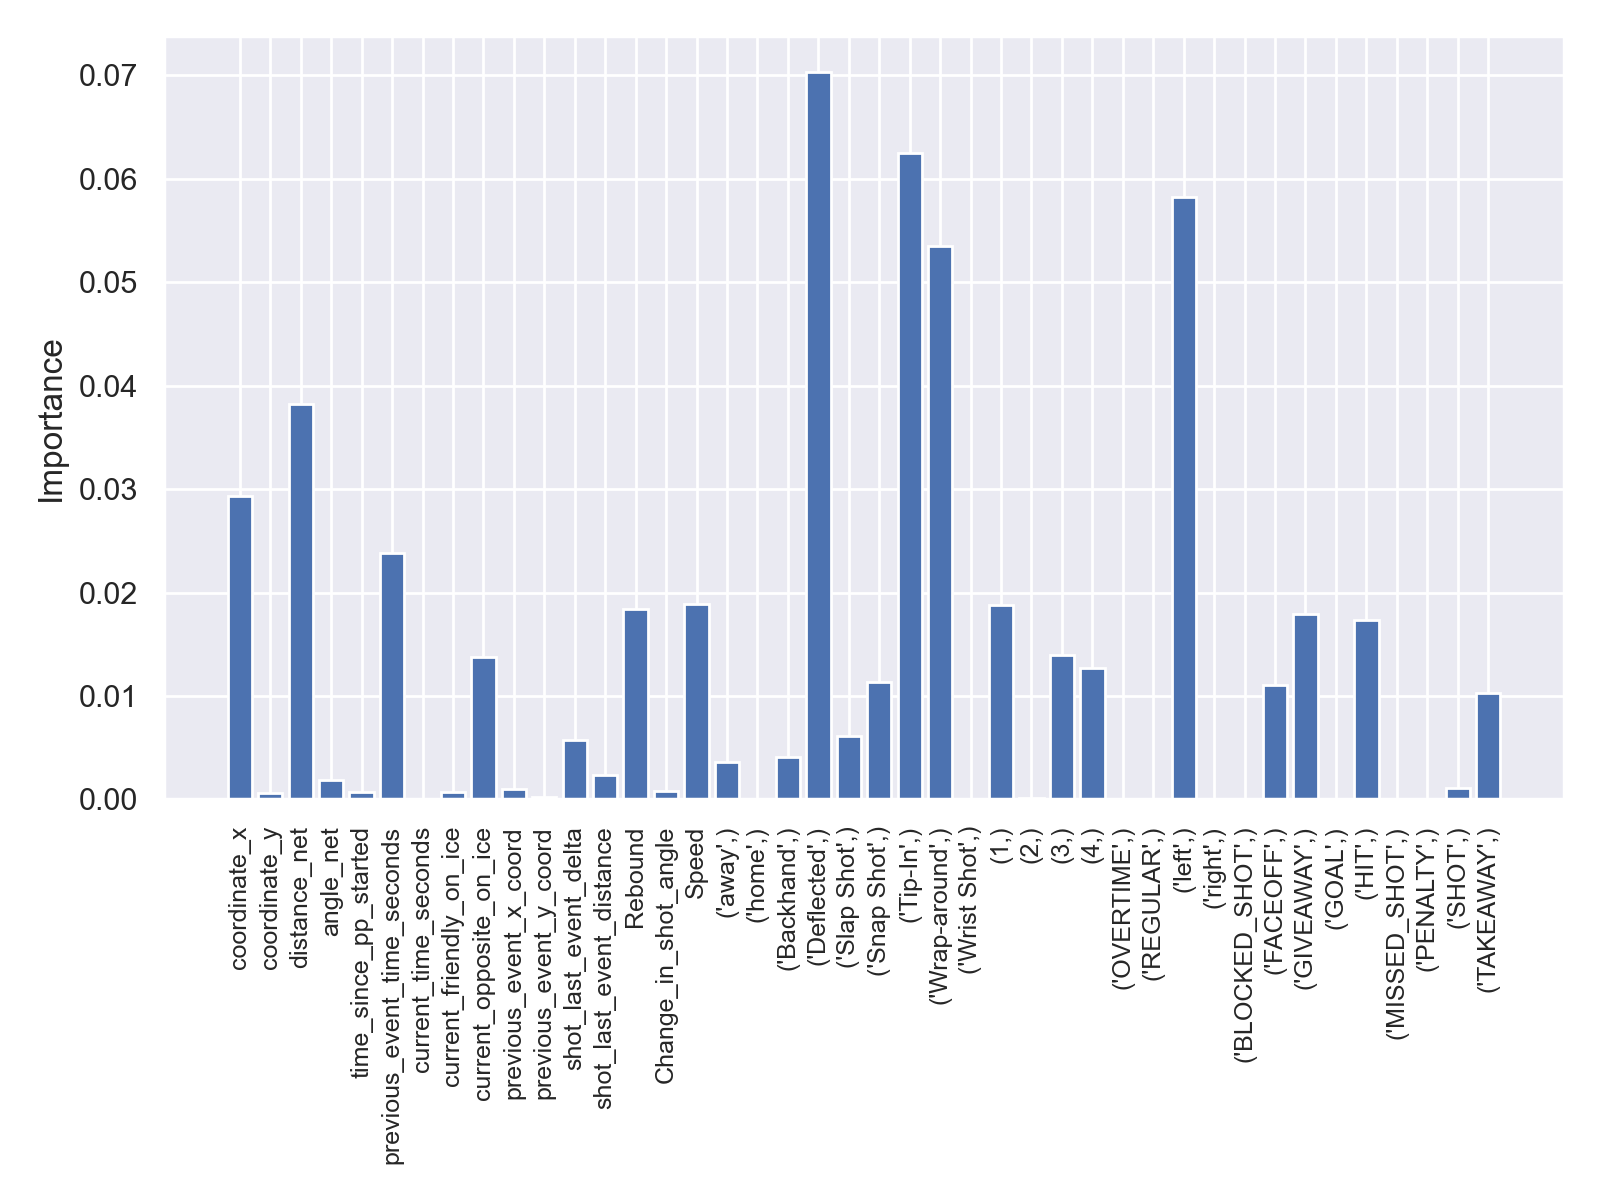
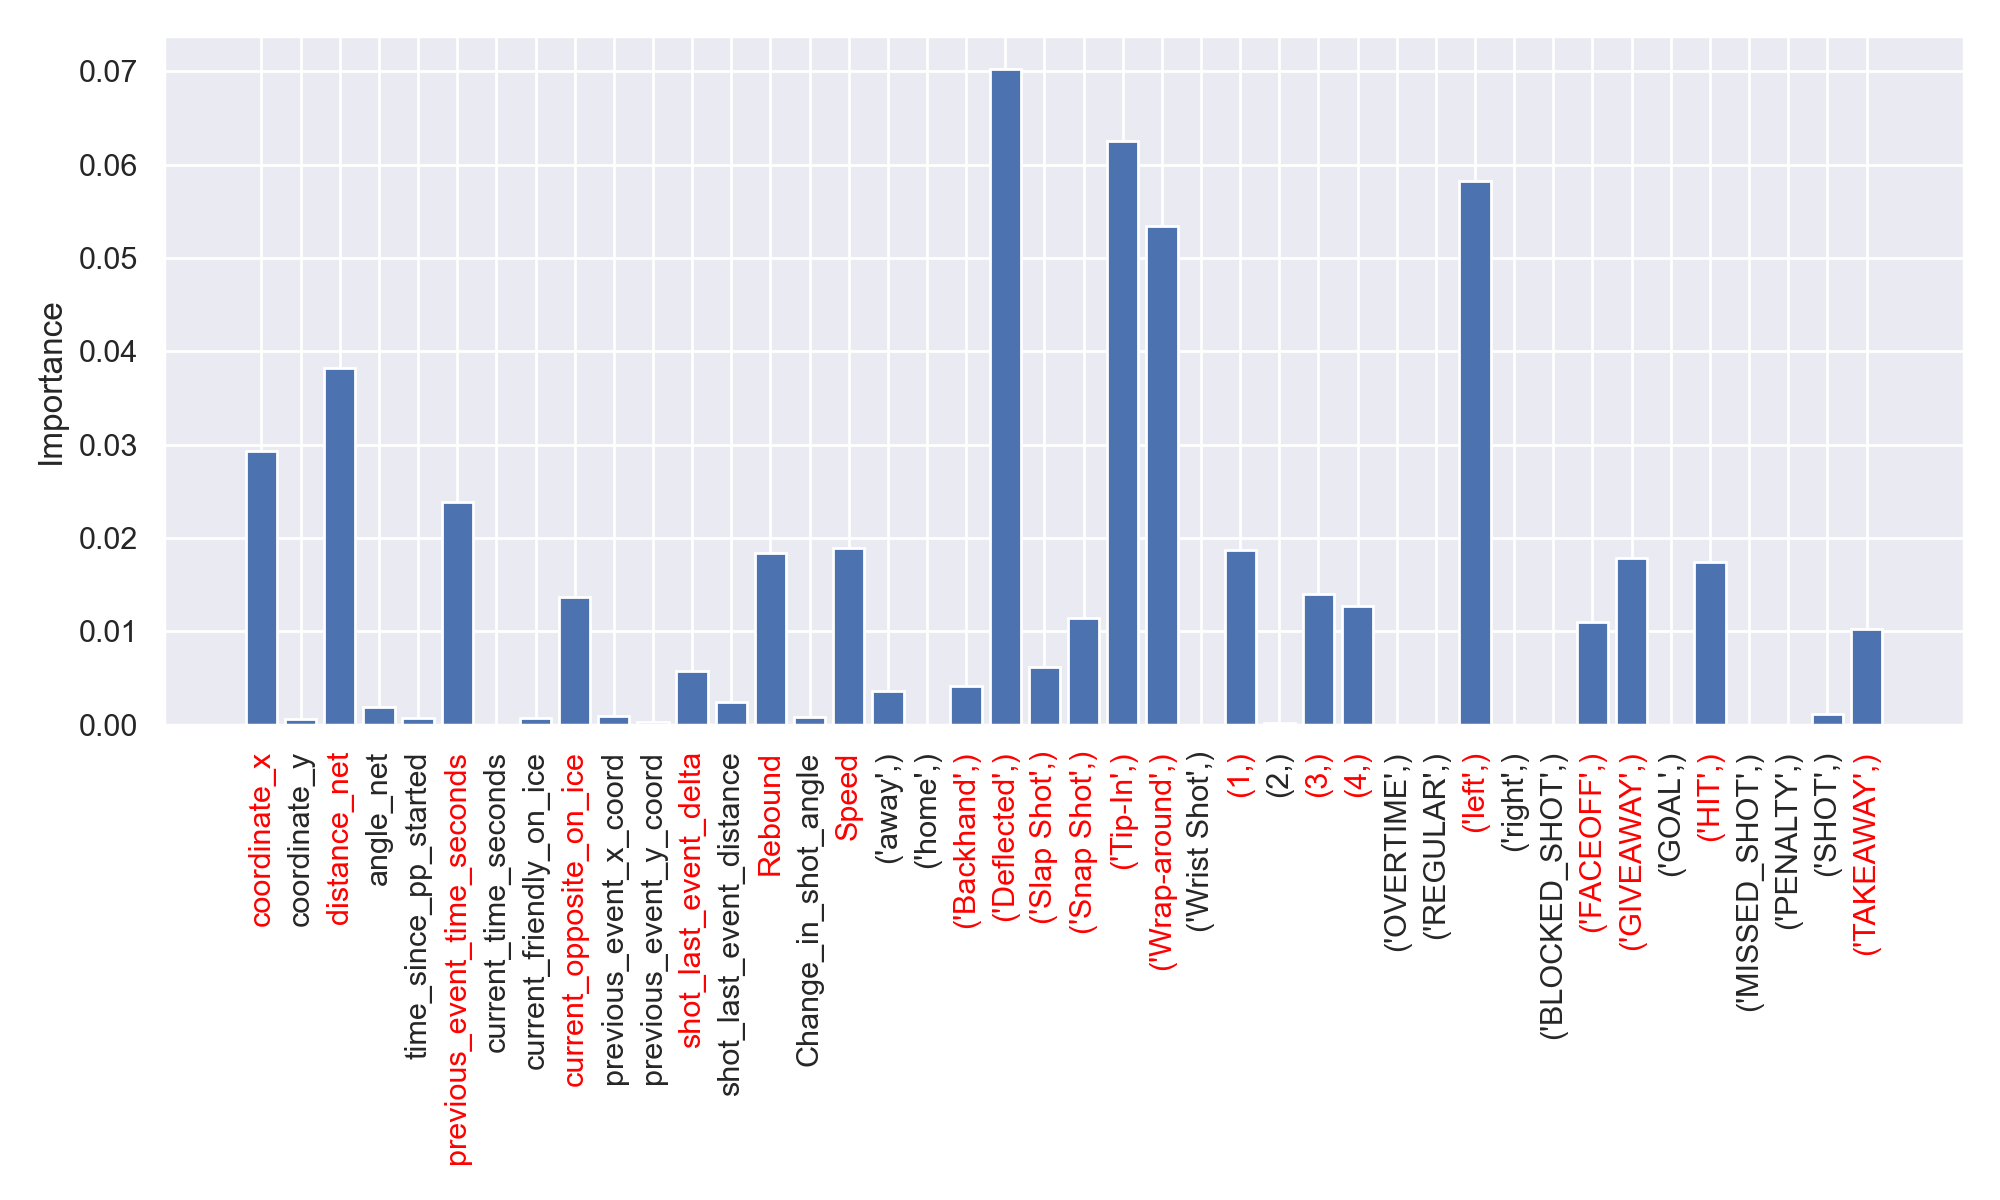
Blog post for section 5 on xgboost

diff --git a/blog/_posts/2021-11-3-milestone-2.md b/blog/_posts/2021-11-3-milestone-2.md
@@ -89,14 +89,14 @@ In order to have a deeper analysis of the behavior of our binary classifiers, us
 
 <figure style="display: block;margin-left: auto; margin-right: auto;width:50%;height:50%;">
     <img src="/public/roc_curve_baseline.png" alt="roc_curve_baseline">
-    <figcaption style="font-size: 12px;text-align: center;">Figure 9: Logistic Regression: ROC rate.</figcaption>
+    <figcaption style="font-size: 12px;text-align: center;">Figure 9: Logistic Regression: ROC curve.</figcaption>
 </figure>
 
 Given the calibration curve shown in Figure 10, we can easily see that our trained models did learn some valuable representations of our data. Comparing all our current models, the model that was trained on both features (distance and angle) has the closest calibration values to the *perfectly* calibrated model. Again, as mentioned before, it confirms that overall this model is the model that gives us the best results so far.
 
 <figure style="display: block;margin-left: auto; margin-right: auto;width:50%;height:50%;">
     <img src="/public/calibration_curve_baseline.png" alt="calibration_curve_baseline">
-    <figcaption style="font-size: 12px;text-align: center;">Figure 10: Logistic Regression: Calibration cruve.</figcaption>
+    <figcaption style="font-size: 12px;text-align: center;">Figure 10: Logistic Regression: Calibration curve.</figcaption>
 </figure>
 
 
@@ -137,3 +137,164 @@ Given the calibration curve shown in Figure 10, we can easily see that our train
 
 ###  link to the experiment which stores the filtered DataFrame artifac
 https://www.comet.ml/jaihon/ift6758-project/fae888ad53de4d1aa940a67b96d106ab?assetId=e46feef96edc4bf8afe7c676f05c192b&assetPath=dataframes&experiment-tab=assets
+
+### Question 5
+> The code for this section can be found in xgboost_models.py
+
+The first XGBoost model was trained on the distance and angle from the net features just like the regression in
+section 3. We trained the model on approximately 75% of the training data from seasons 2015 to 2018 (inclusive). Since
+the data is very unbalanced, we made sure that the splitting into training/validation kept the proportion of goal and
+no goal by using a stratified option. We also standardized both features to have them in a comparable range centered
+around 0. The resulting model performed somewhat better than the regression models as shown on figures 11 to 14. This model is
+represented by the blue curve in the figures. If we compare this curve and the ones from figures 7 to 10, we first notice
+that the area under the curve of the ROC curve is slightly larger than the one from the regression models with a value of 0.71
+compared to the highest one of 0.70 in the regressions. For the goal rate and cumulative sum of goals in function with
+the shot probability model percentile, the curves are fairly similar for the xgboost model and the regression model trained
+on distance and angle. They have the same shape and in the case of the goal rate one, they are in the same range also.
+The real difference comes from the calibration curve where we see that the probabilities from the xgboost model ranges
+from 0 to about 0.85 as opposed to the regression models which go only up to 0.25. This tells us that the xgboost models
+is better calibrated and that the probabilities are more telling and "accurate" than the ones from the regression models
+as it tends to be closer to the perfectly calibrated curve.
+<figure style="display: block;margin-left: auto; margin-right: auto;width:75%;height:75%;">
+    <img src="/public/roc_curve_xgboost.png" alt="roc_curve_xgboost">
+    <figcaption style="font-size: 12px;text-align: center;">Figure 11: XGBoost: ROC curve.</figcaption>
+</figure>
+<figure style="display: block;margin-left: auto; margin-right: auto;width:75%;height:75%;">
+    <img src="/public/goal_rate_xgboost.png" alt="goal_rate_xgboost">
+    <figcaption style="font-size: 12px;text-align: center;">Figure 12: XGBoost: goal rate.</figcaption>
+</figure>
+<figure style="display: block;margin-left: auto; margin-right: auto;width:75%;height:75%;">
+    <img src="/public/cumulative_goals_xgboost.png" alt="cumulative_sum_xgboost">
+    <figcaption style="font-size: 12px;text-align: center;">Figure 13: XGBoost: cumulative sum.</figcaption>
+</figure>
+<figure style="display: block;margin-left: auto; margin-right: auto;width:75%;height:75%;">
+    <img src="/public/calibration_xgboost.png" alt="calibration_xgboost">
+    <figcaption style="font-size: 12px;text-align: center;">Figure 14: XGBoost: calibration curve.</figcaption>
+</figure>
+
+For the next xgboost model, we started by standardizing all the numerical features and remove the rows which had nan values.
+For the particular case of the *Speed* column, we had to impute a new value for the rows which had infinity values. To do so,
+we simply changed the infinity with the maximum value (beside infinity) in the column. We then transformed all our categorical
+data into one-hot encoding. This is only after doing this that
+we did some hyperparameter optimization. Before tuning anything, we started by finding the relations between
+different hyperparameters and metrics. These are shown on figures 15, 16 and 17 where we evaluated our model on
+accuracy, precision and F1 score for a range of values on the number of estimators (trees), the maximum depth of each tree
+and the l2 regularisation coefficient lambda. We found that the accuracy stayed constant around 0.907 for all parameters.
+For both the number of estimators and the maximum depth, we noticed that increasing them decreased the precision, but
+increased the F1 score. This probably meant that the recall was increasing while the precision was decreasing. Since we
+care both about precision and recall, and even though generally speaking a higher F1 score is better, it is difficult
+to say if increasing the number of estimators and the maximum depth is really better. Also, the precision decreases more
+rapidly than the F1 score increases. For the regularisation coefficient on figure 17, it seems that the higher the coefficient,
+the better since the precision increases while the F1 score and accuracy stays pretty much constant.
+
+<figure style="display: block;margin-left: auto; margin-right: auto;width:75%;height:75%;">
+    <img src="/public/n_estimators_vs_metrics_xgboost.png" alt="number_of_estimators_vs_metrics">
+    <figcaption style="font-size: 12px;text-align: center;">Figure 15: Relation between the number of estimators and different metrics.</figcaption>
+</figure>
+<figure style="display: block;margin-left: auto; margin-right: auto;width:75%;height:75%;">
+    <img src="/public/max_depth_vs_metrics_xgboost.png" alt="max_depth_vs_metrics">
+    <figcaption style="font-size: 12px;text-align: center;">Figure 16: Relation between the max depth of a tree and different metrics.</figcaption>
+</figure>
+<figure style="display: block;margin-left: auto; margin-right: auto;width:75%;height:75%;">
+    <img src="/public/reg_lambda_vs_metrics_xgboost.png" alt="reg_lambda_vs_metrics">
+    <figcaption style="font-size: 12px;text-align: center;">Figure 17: Relation between the regularisation coefficient lambda (l2) and different metrics.</figcaption>
+</figure>
+
+Once we finished exploring some hyperparameters, we did a randomized search over the hyperparameters space focusing
+on the same parameters as before as well as the learning rate. We did not do a grid search because it would have taken
+too long to search all the parameters we wanted to try, but also because the hyperparameters do not have such a big influence
+on the results as was shown on the figures above. Since the accuracy is almost constant for all parameters, we decided to
+focus on the ROC area under the curve. The best model was selected with the highest ROC AUC. The resulting model was
+found to have the following hyperparameters:
+
+|      Hyperparameter     | Value |
+|:-----------------------:|:-----:|
+|     # of estimators     |  300  |
+|      Maximum depth      |   5   |
+| Regularisation &lambda; |   0   |
+|      Learning rate      |  0.03 |
+
+It is the orange curve on the figures 11 to 14. Even if this is the *best* model, the one right below in terms of performance
+was very close to it with a ROC AUC of 0.75 compared to the model presented here which has 0.76.
+
+As for our last experience, we tried some feature selection. We tried two different methods: lasso and mutual information.
+For the lasso one, we evaluated a lasso linear model on our training dataset and selected the features that had the highest
+coefficient of importance, i.e. they were higher than the median. The features selected are shown in red on figure 18 which
+presents the importance coefficient according to the lasso model for all of our features. The features that are in parentheses
+are the categorical data that was encoded using one-hot vectors. We can see that some values in categorical data seem to be
+"useless" like the type of period in which the shot happens (overtime vs regular). Interestingly, we noticed that knowing the side of the
+team that is shooting (right vs left) seems to be more important when it is left. Not too surprisingly, some type of shots seem to
+have a bigger impact like *deflected* or *tip-in* or *wrap-around* compared to wrist shot. If we recall from the previous milestone,
+we concluded that *deflected* and *tip-in* were among the most dangerous shots which seems to agree with this. These are some of
+the interesting observations that we found from this figure.
+
+<figure style="display: block;margin-left: auto; margin-right: auto;width:100%;height:100%;">
+    <img src="/public/importance_feature_lasso_xgboost.png" alt="importance_feature_xgboost">
+    <figcaption style="font-size: 12px;text-align: center;">Figure 18: Importance of each feature according to lasso.</figcaption>
+</figure>
+
+Anyway, once we selected the features in red, we trained our model using a randomized search again on the same hyperparameters as before.
+We found a model that was performing similarly as our best one trained on all features as we can see by comparing the green (lasso trained one) and orange
+curves on figures 11 to 14.
+
+For the mutual information model, we did a randomized search on the same hyperparameters as before, but with the addition of
+choosing a number of features according to the mutual information. Our best model using this trained on 15 features. A comparison
+of the chosen features between the lasso model and mutual information score is shown in the following table where only
+the features selected by either one of them is presented:
+
+|           Feature           | Lasso | Mutual |
+|:---------------------------:|:-----:|:------:|
+|         coordinate_x        |   x   |    x   |
+|         coordinate_y        |       |    x   |
+|         distance_net        |   x   |    x   |
+|          angle_net          |       |    x   |
+|    time_since_pp_started    |       |    x   |
+| previous_event_time_seconds |   x   |        |
+|   current_friendly_on_ice   |       |    x   |
+|   current_opposite_on_ice   |   x   |    x   |
+|    shot_last_event_delta    |   x   |    x   |
+|           Rebound           |   x   |        |
+|            Speed            |   x   |    x   |
+|             away            |       |    x   |
+|             home            |       |    x   |
+|           Backhand          |   x   |        |
+|          Deflected          |   x   |        |
+|          Slap Shot          |   x   |        |
+|          Snap Shot          |   x   |        |
+|            Tip-In           |   x   |        |
+|         Wrap-around         |   x   |        |
+|          Wrist Shot         |       |    x   |
+|              1              |   x   |        |
+|              3              |   x   |        |
+|              4              |   x   |        |
+|           REGULAR           |       |    x   |
+|             left            |   x   |    x   |
+|            right            |       |    x   |
+|           FACEOFF           |   x   |        |
+|           GIVEAWAY          |   x   |        |
+|             HIT             |   x   |        |
+|           TAKEAWAY          |   x   |        |
+
+*the numbers 1,3,4 are the period.
+
+From this table, we can observe that both method seem to agree on some features like the coordinate x, the distance or the
+speed. However, the interesting features are the one selected by the mutual information, but not the lasso since the lasso took
+more. Among those are the types of shots, lasso take all of the types except the wrist shot, but mutual information does the complete
+opposite and select only the wrist shot. Mutual information also takes the period type regular into account whereas lasso
+completely ignore them.
+
+The model resulting from training with mutual information is shown in red in the figures 11 to 14. We can see that it does not
+perform as well as the models trained on all features and on the lasso selected features on figures 11 to 13 where the curves are
+closer to the default XGBoost model.
+
+We want to note that all of the curves on figure 14 start of pretty linear which is good because it follows the perfectly
+calibrated model.
+
+After inspecting figures 11 to 14, we concluded that the best model was the one trained on all features because it has the
+highest ROC AUC, but also because its calibration curve seems to be the most linear one. Indeed, we can see that the orange
+curve varies less than the others after around 0.5 probabilty.
+
+The links to the different experiments shown in this section can be found here:
+1. [XGBoost trained on distance and angle with default hyperparameters](https://www.comet.ml/jaihon/ift6758-project/20c76cb9d81541b5ae0d2b320e59f59f)
+2. [XGBoost with hyperparameter tuning and trained on all features](https://www.comet.ml/jaihon/ift6758-project/05c804186d274b0c8955cbb14b1a66b3)
+3. [XGBoost with hyperparameter tuning and trained on subset of features selected by Lasso](https://www.comet.ml/jaihon/ift6758-project/74f19b8137e14336ba1e49c198dfd3e6)
